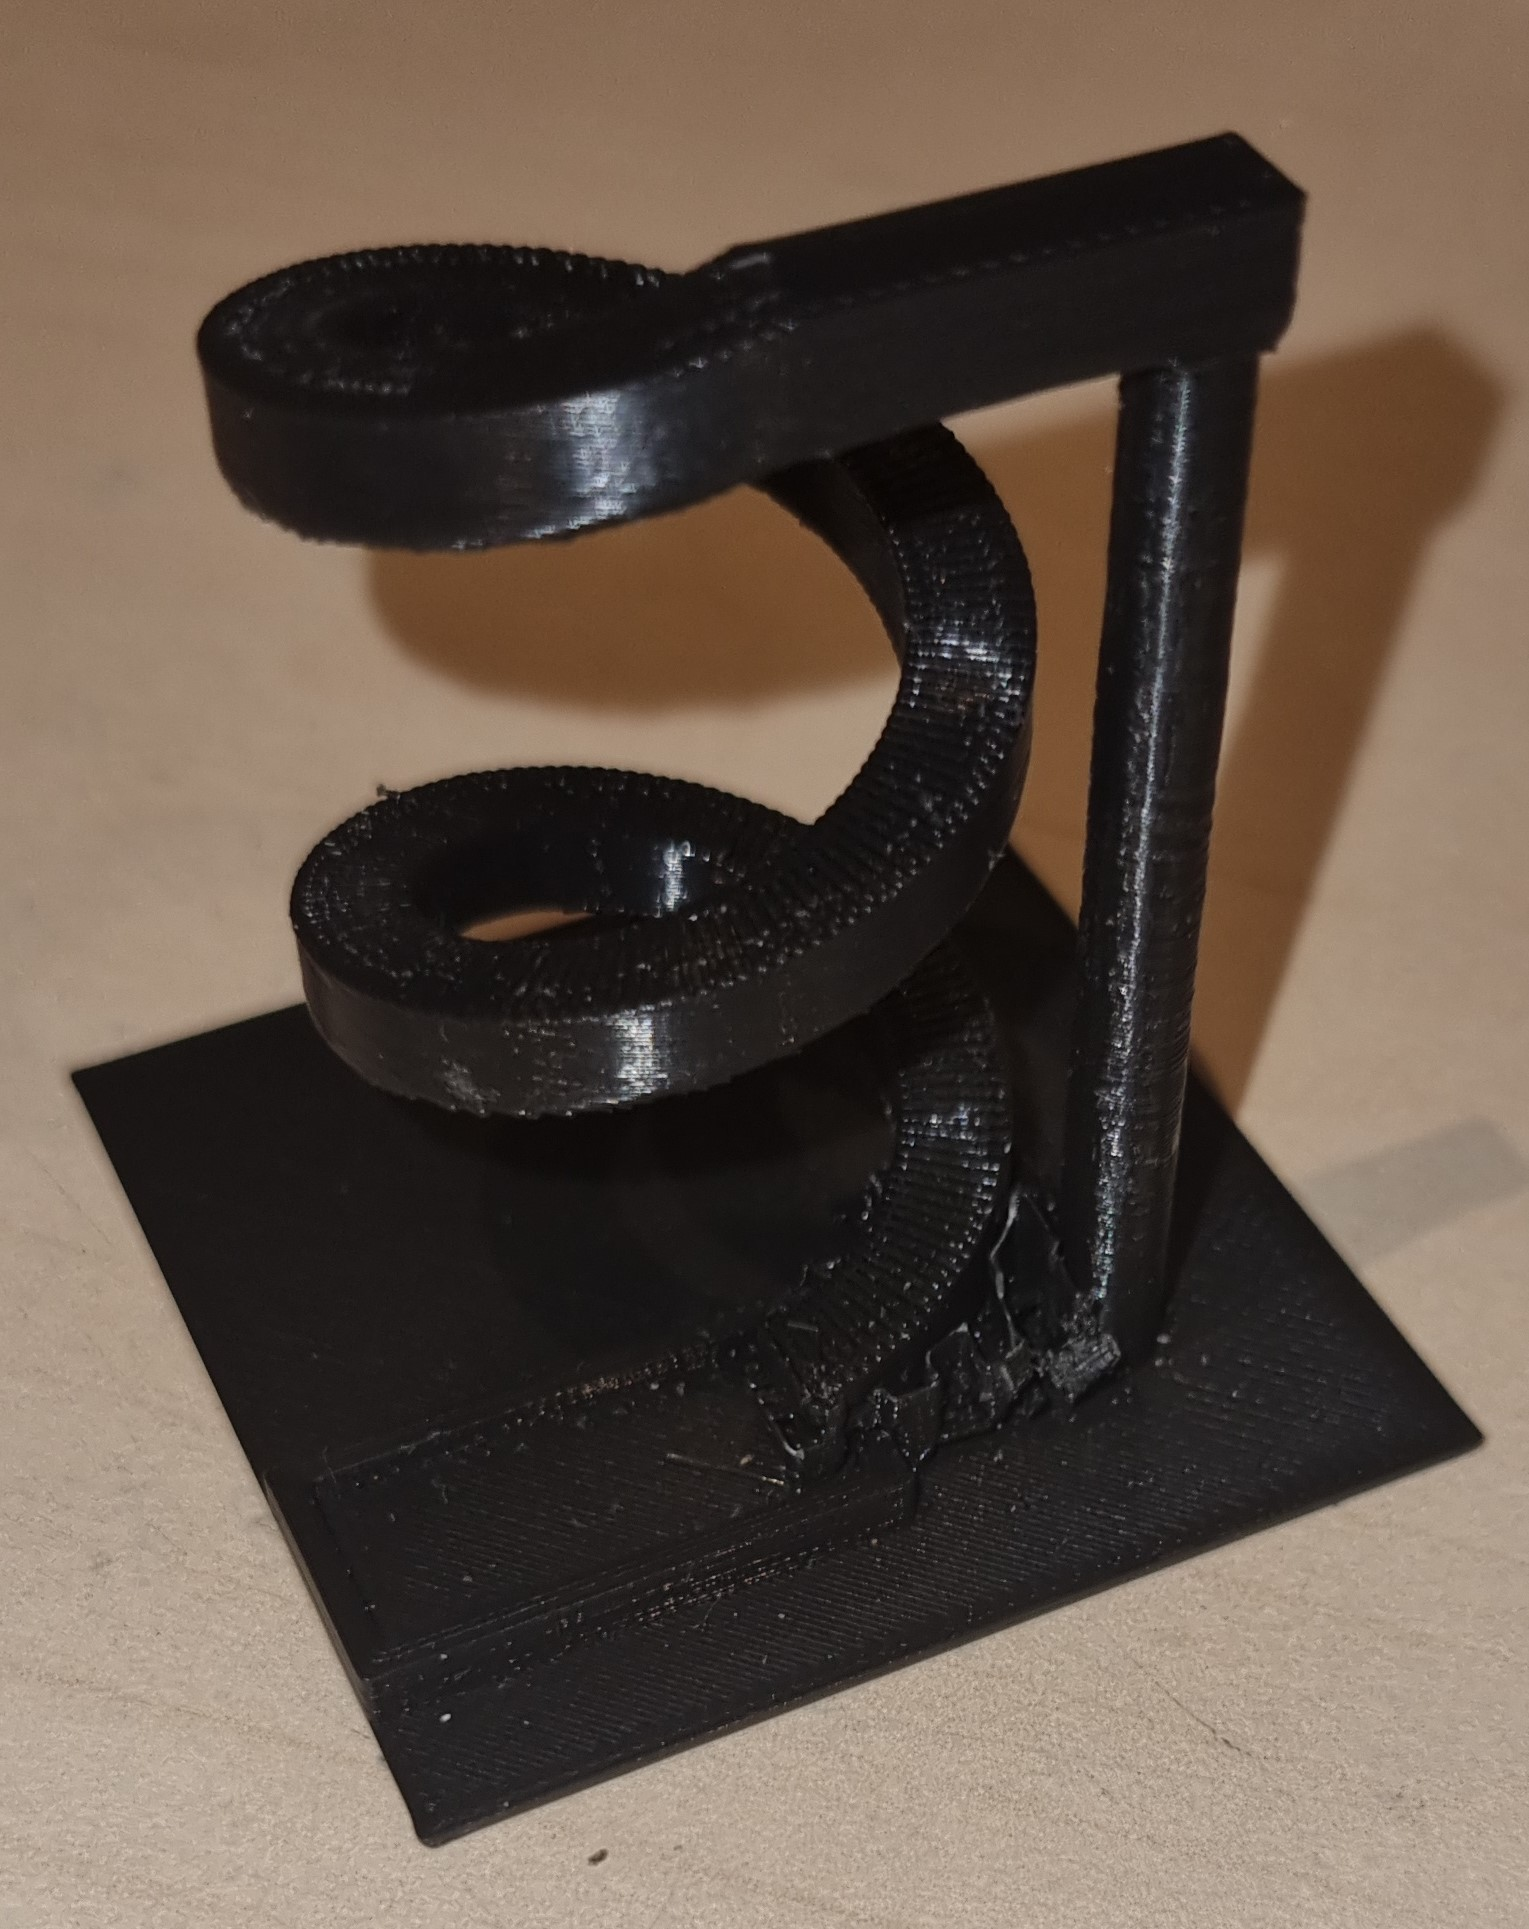
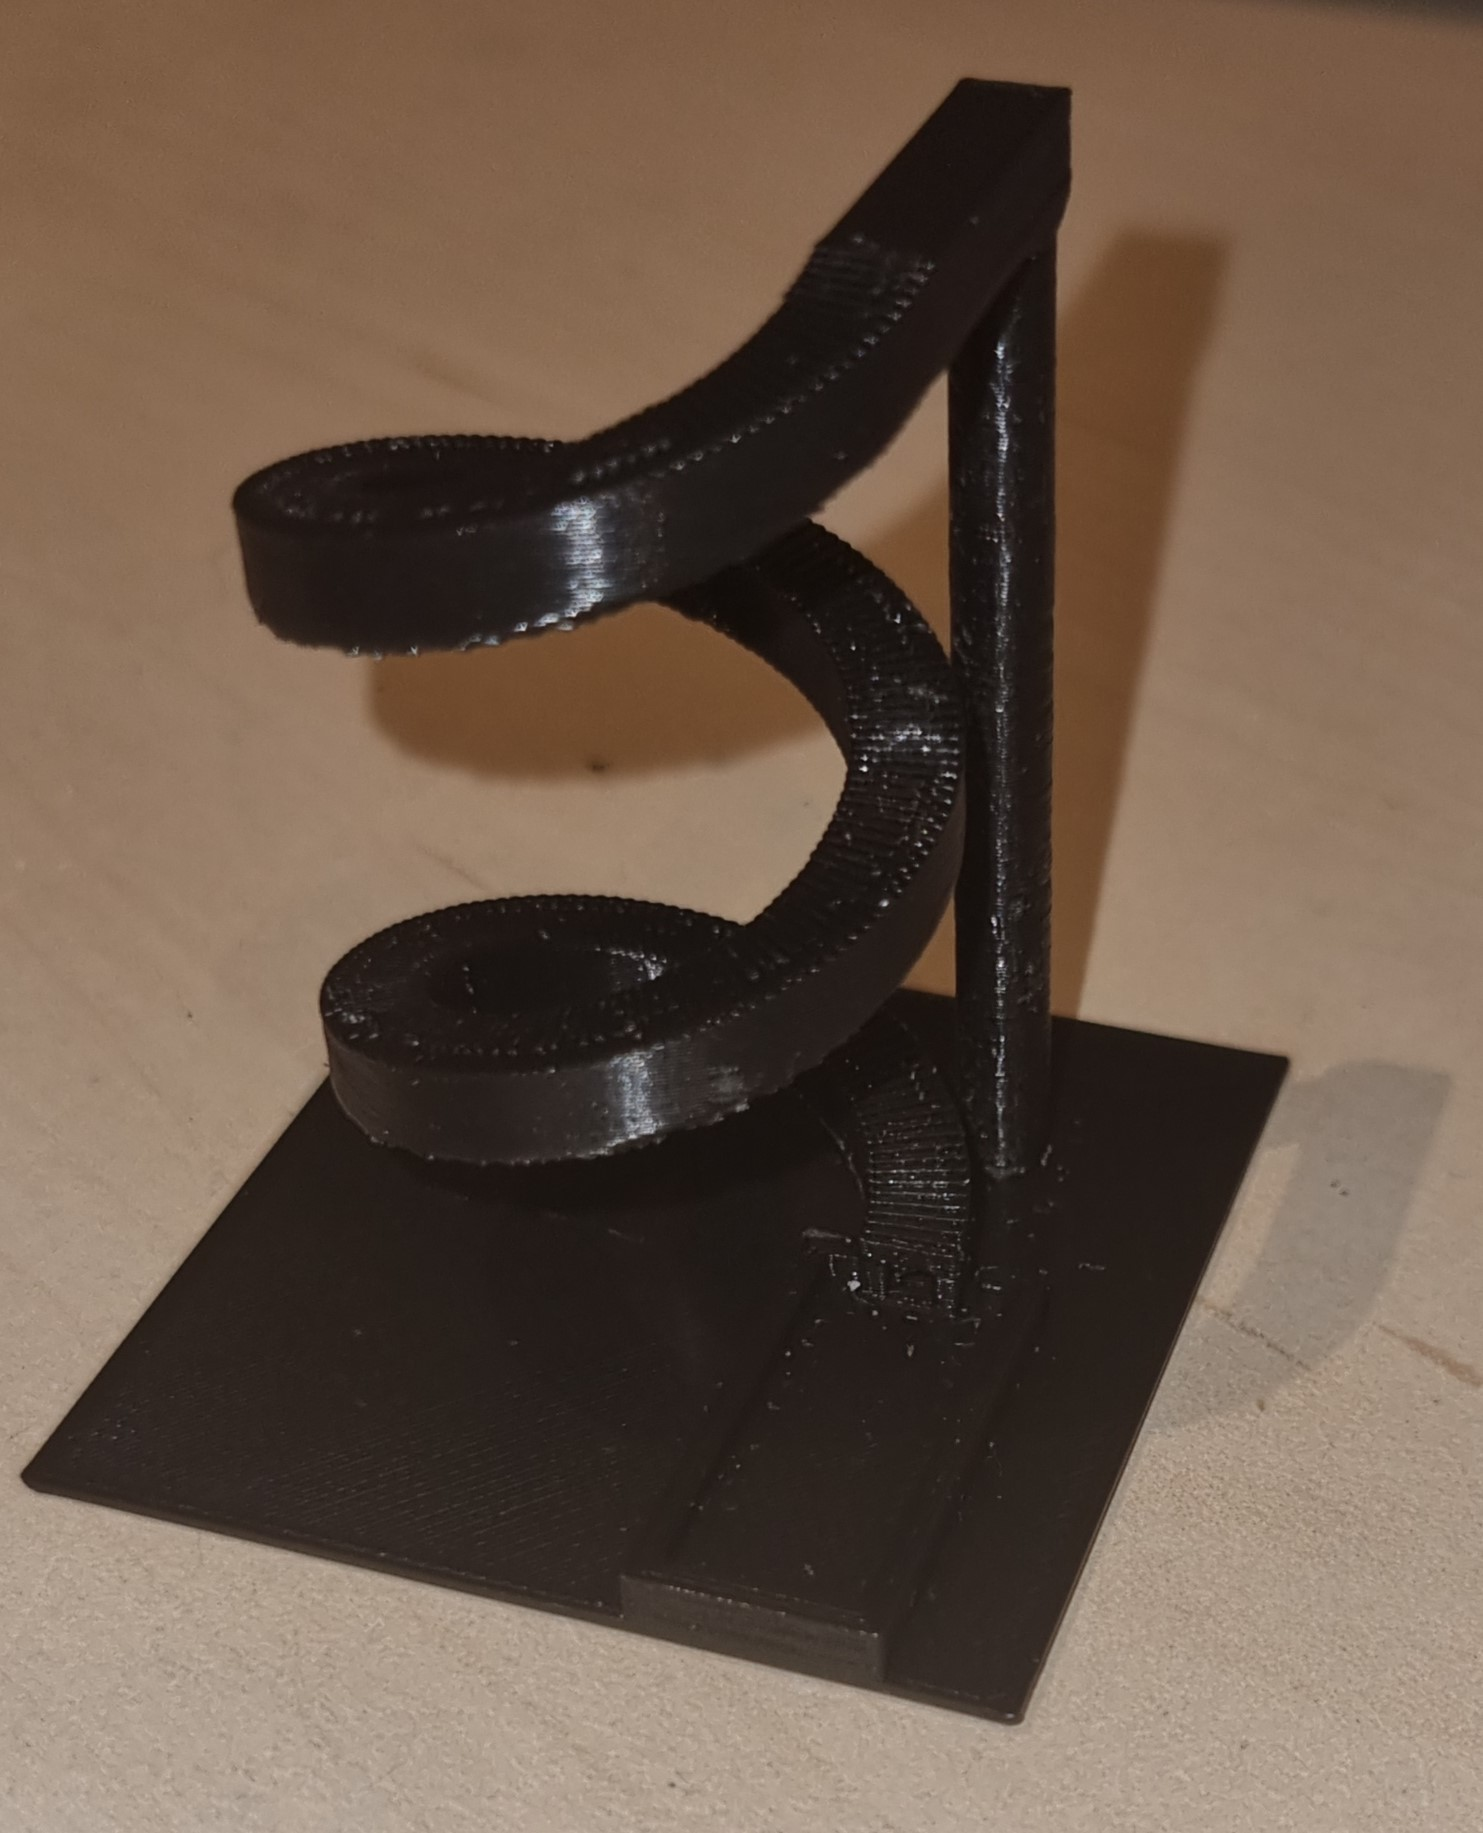
Test?

diff --git a/V3Prentun.html b/V3Prentun.html
@@ -112,16 +112,18 @@
 								ná supportinu af og ég áhvað að nota naglaklippur. Við notkun naglaklippa klipti
 								ég endana og reif af supportið. Það tók um klukkutíma að ná þessu af.
 							</p>
+							<p>Á endanum gat ég ekki tekið ein bita af</p>
 
 							<h4>Vandamál 2</h4>
 							<p>Seinna vandamálið er að rennibrauts holan er fyllt með support og því er ekki mögulegt að setja
-								einhvað inn í hana og láta það renna niður
-							</p>
+								einhvað inn í hana og láta það renna niður.
+							</p><img src="./images2/V3_Hola.jpg" height="200">
 							
 
 
 							<h3>Loka útkoma</h3>
-							<p></p>  
+							<p>Ég myndi segja að endarvaran gékk ekki vel en </p>  
+							<img src="./images2/V3_Lokagerd.jpg" height="400">
 							<br>
 						</div>
 					</section>
